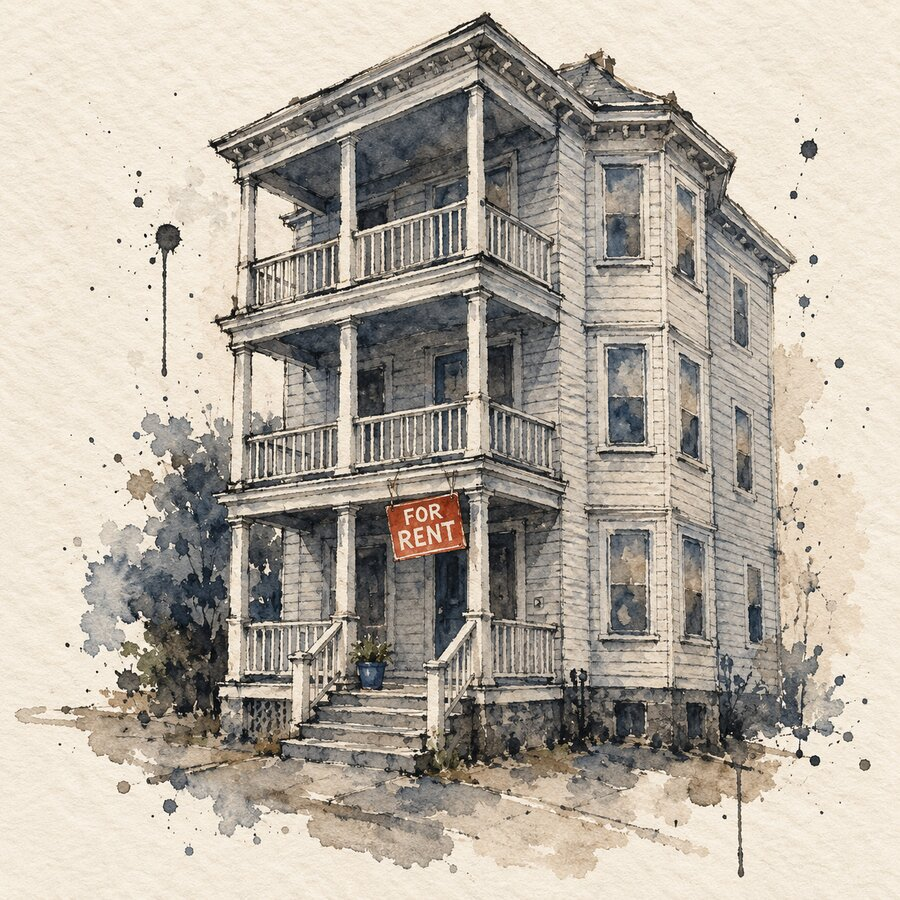
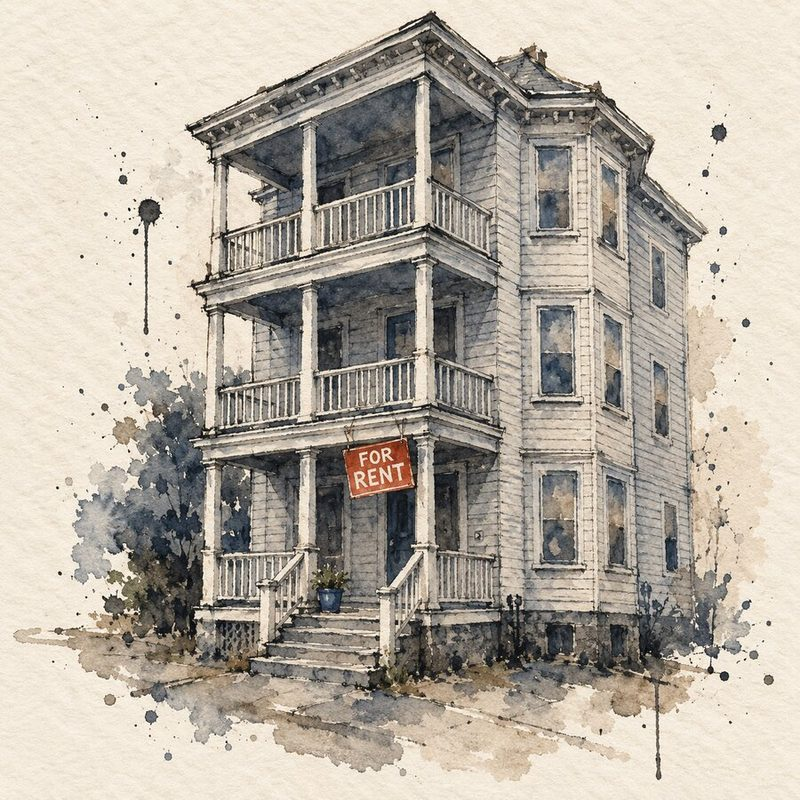
Shrink landing-page tile images (~30 MB to ~2 MB) and lazy-load them
Claude-Session: https://claude.ai/code/session_01KEpjscZpUtAnHwKkyzZ11c

diff --git a/index.html b/index.html
@@ -101,119 +101,119 @@
     <main>
         <div class="grid">
             <a class="tile" href="/tools/contest-tracker/">
-                <img class="tile-img" src="/assets/tiles/01-forecasting-contest.png" alt="">
+                <img class="tile-img" src="/assets/tiles/01-forecasting-contest.jpg" alt="" width="800" height="800" loading="lazy" decoding="async">
                 <div class="tile-body">
                     <div class="tile-title">Narcissist Forecasting Contest</div>
                     <div class="tile-desc">2026 forecasting competition tracker with leaderboards, prop analytics, and Monte Carlo simulations. <span class="tile-date">(February 2026)</span></div>
                 </div>
             </a>
             <a class="tile" href="/forecasting_calibration/">
-                <img class="tile-img" src="/assets/tiles/02-calibration.png" alt="">
+                <img class="tile-img" src="/assets/tiles/02-calibration.jpg" alt="" width="800" height="800" loading="lazy" decoding="async">
                 <div class="tile-body">
                     <div class="tile-title">Forecasting Contest Calibration</div>
                     <div class="tile-desc">Forecaster calibration across 10 years of Narcissist Forecasting Contest data (2016&ndash;2025). <span class="tile-date">(January 2026)</span></div>
                 </div>
             </a>
             <a class="tile" href="/tools/tfr-explorer-v2/">
-                <img class="tile-img" src="/assets/tiles/03-fertility.png" alt="">
+                <img class="tile-img" src="/assets/tiles/03-fertility.jpg" alt="" width="800" height="800" loading="lazy" decoding="async">
                 <div class="tile-body">
                     <div class="tile-title">Fertility Rate Explorer</div>
                     <div class="tile-desc">Why are birth rates falling? 265 countries and 75,000 US survey respondents &mdash; marriage, religion, economics, and projections. <span class="tile-date">(February 2026)</span></div>
                 </div>
             </a>
             <a class="tile" href="/tools/ai-employment/">
-                <img class="tile-img" src="/assets/tiles/04-ai-employment.png" alt="">
+                <img class="tile-img" src="/assets/tiles/04-ai-employment.jpg" alt="" width="800" height="800" loading="lazy" decoding="async">
                 <div class="tile-body">
                     <div class="tile-title">AI Employment Futures</div>
                     <div class="tile-desc">How will AI reshape US employment over the next decade? Prediction market anchors, industry breakdowns, probability bands. <span class="tile-date">(February 2026)</span></div>
                 </div>
             </a>
             <a class="tile" href="/tools/nfl-valuations/">
-                <img class="tile-img" src="/assets/tiles/05-nfl-valuations.png" alt="">
+                <img class="tile-img" src="/assets/tiles/05-nfl-valuations.jpg" alt="" width="800" height="800" loading="lazy" decoding="async">
                 <div class="tile-body">
                     <div class="tile-title">NFL Valuation Explorer</div>
                     <div class="tile-desc">What drives NFL franchise valuations &mdash; correlations, regression models, and team comparisons. <span class="tile-date">(February 2026)</span></div>
                 </div>
             </a>
             <a class="tile" href="/tools/analytics-assessment/">
-                <img class="tile-img" src="/assets/tiles/06-birds-of-ai.png" alt="">
+                <img class="tile-img" src="/assets/tiles/06-birds-of-ai.jpg" alt="" width="800" height="800" loading="lazy" decoding="async">
                 <div class="tile-body">
                     <div class="tile-title">Birds of AI Assessment</div>
                     <div class="tile-desc">Self-assess your business analytics skills across three dimensions: domain, statistics, coding. <span class="tile-date">(January 2026)</span></div>
                 </div>
             </a>
             <a class="tile" href="/tools/deliberate-practice/">
-                <img class="tile-img" src="/assets/tiles/09-deliberate-practice.png" alt="">
+                <img class="tile-img" src="/assets/tiles/09-deliberate-practice.jpg" alt="" width="800" height="800" loading="lazy" decoding="async">
                 <div class="tile-body">
                     <div class="tile-title">Deliberate Practice Calculator</div>
                     <div class="tile-desc">Inventory your lifetime hours, score them on practice quality, and see how much of your skill is explained by practice. <span class="tile-date">(May 2026)</span></div>
                 </div>
             </a>
             <a class="tile" href="/tools/hjr203-tracker/">
-                <img class="tile-img" src="/assets/tiles/07-hjr203.png" alt="">
+                <img class="tile-img" src="/assets/tiles/07-hjr203.jpg" alt="" width="800" height="800" loading="lazy" decoding="async">
                 <div class="tile-body">
                     <div class="tile-title">HJR 203 Tracker</div>
                     <div class="tile-desc">Florida Homestead Property Tax Elimination &mdash; probability dashboard with Manifold market data, FL-specific financial signals, and Zillow home value ratios. <span class="tile-date">(February 2026)</span></div>
                 </div>
             </a>
             <a class="tile" href="/tools/mabels-providence-adventure/">
-                <img class="tile-img" src="/assets/tiles/08-mabel-adventure.png" alt="">
+                <img class="tile-img" src="/assets/tiles/08-mabel-adventure.jpg" alt="" width="800" height="800" loading="lazy" decoding="async">
                 <div class="tile-body">
                     <div class="tile-title">Mabel's Providence Adventure</div>
                     <div class="tile-desc">Mobile runner game starring Mabel the Bernedoodle romping through Providence collecting treats. Best on phones. <span class="tile-date">(April 2026)</span></div>
                 </div>
             </a>
             <a class="tile" href="/tools/career-payoffs/">
-                <img class="tile-img" src="/assets/tiles/roulette%20wheel%20image.png" alt="">
+                <img class="tile-img" src="/assets/tiles/career-payoffs.jpg" alt="" width="800" height="800" loading="lazy" decoding="async">
                 <div class="tile-body">
                     <div class="tile-title">Career Payoff Explorer</div>
                     <div class="tile-desc">Lifetime earnings distributions across six career archetypes &mdash; sliders for time horizon, economy, and AI scenario. <span class="tile-date">(May 2026)</span></div>
                 </div>
             </a>
             <a class="tile" href="/tools/car-sludge/">
-                <img class="tile-img" src="/assets/tiles/10-sludge-machine.jpg" alt="">
+                <img class="tile-img" src="/assets/tiles/10-sludge-machine.jpg" alt="" width="800" height="800" loading="lazy" decoding="async">
                 <div class="tile-body">
                     <div class="tile-title">The Sludge Machine</div>
                     <div class="tile-desc">Buy the same car three times &mdash; alone, with an AI negotiating for you, and against the dealer's AI. A game about sludge and dominant strategies. <span class="tile-date">(July 2026)</span></div>
                 </div>
             </a>
             <a class="tile" href="/tools/providence-rent-control/">
-                <img class="tile-img" src="/assets/tiles/11-rent-control.jpg" alt="">
+                <img class="tile-img" src="/assets/tiles/11-rent-control.jpg" alt="" width="800" height="800" loading="lazy" decoding="async">
                 <div class="tile-body">
                     <div class="tile-title">The Seen and the Unseen: Rent Control in Providence</div>
                     <div class="tile-desc">An interactive data essay on the proposed 4% rent stabilization cap in Providence &mdash; who gains, who pays, and how the housing supply adjusts. <span class="tile-date">(July 2026)</span></div>
                 </div>
             </a>
             <a class="tile" href="/tools/ri-labor-reality/">
-                <img class="tile-img" src="/assets/tiles/12-ri-labor-reality.jpg" alt="">
+                <img class="tile-img" src="/assets/tiles/12-ri-labor-reality.jpg" alt="" width="800" height="800" loading="lazy" decoding="async">
                 <div class="tile-body">
                     <div class="tile-title">Rhode Island Labor Reality</div>
                     <div class="tile-desc">Employment-population ratio for Rhode Island, New England, and the US, decomposed by participation vs. unemployment, with 50-state choropleths. <span class="tile-date">(September 2026)</span></div>
                 </div>
             </a>
             <a class="tile" href="/tools/seven-new-years/">
-                <img class="tile-img" src="/assets/tiles/13-seven-new-years.jpg" alt="">
+                <img class="tile-img" src="/assets/tiles/13-seven-new-years.jpg" alt="" width="800" height="800" loading="lazy" decoding="async">
                 <div class="tile-body">
                     <div class="tile-title">When Should the New Year Begin?</div>
                     <div class="tile-desc">How seven calendars set the start of the year, and how each lines up with the temperature, rainfall, and harvest of the place it comes from. <span class="tile-date">(September 2026)</span></div>
                 </div>
             </a>
             <a class="tile" href="/tools/gym-affluence/">
-                <img class="tile-img" src="/assets/tiles/14-gym-affluence.jpg" alt="">
+                <img class="tile-img" src="/assets/tiles/14-gym-affluence.jpg" alt="" width="800" height="800" loading="lazy" decoding="async">
                 <div class="tile-body">
                     <div class="tile-title">Do Expensive Gyms Attract Wealthier Members?</div>
                     <div class="tile-desc">Three independent tests &mdash; Google Trends, gym chain geography, and BLS consumer spending &mdash; of whether premium gyms serve wealthier members. <span class="tile-date">(February 2026)</span></div>
                 </div>
             </a>
             <a class="tile" href="/tools/vowel-space/">
-                <img class="tile-img" src="/assets/tiles/15-vowel-space/image.png" alt="" loading="lazy">
+                <img class="tile-img" src="/assets/tiles/15-vowel-space.jpg" alt="" width="800" height="800" loading="lazy" decoding="async">
                 <div class="tile-body">
                     <div class="tile-title">Vowel Space Explorer</div>
                     <div class="tile-desc">Drag around the vowel chart and hear English vowels change as you move pitch, formants F1&ndash;F3, and nasality, with a live source-filter spectrum. <span class="tile-date">(September 2026)</span></div>
                 </div>
             </a>
             <a class="tile" href="/tools/gen-x-mesofacts/">
-                <img class="tile-img" src="/assets/tiles/16-gen-x-mesofacts.jpg" alt="" loading="lazy">
+                <img class="tile-img" src="/assets/tiles/16-gen-x-mesofacts.jpg" alt="" width="800" height="800" loading="lazy" decoding="async">
                 <div class="tile-body">
                     <div class="tile-title">Gen X Mesofacts</div>
                     <div class="tile-desc">68 charts of the big, slow American trends of a Gen X lifetime, from teen births and crime to oil and newspapers, with an optional overlay of where the 1985&ndash;90 trend pointed. <span class="tile-date">(October 2026)</span></div>
